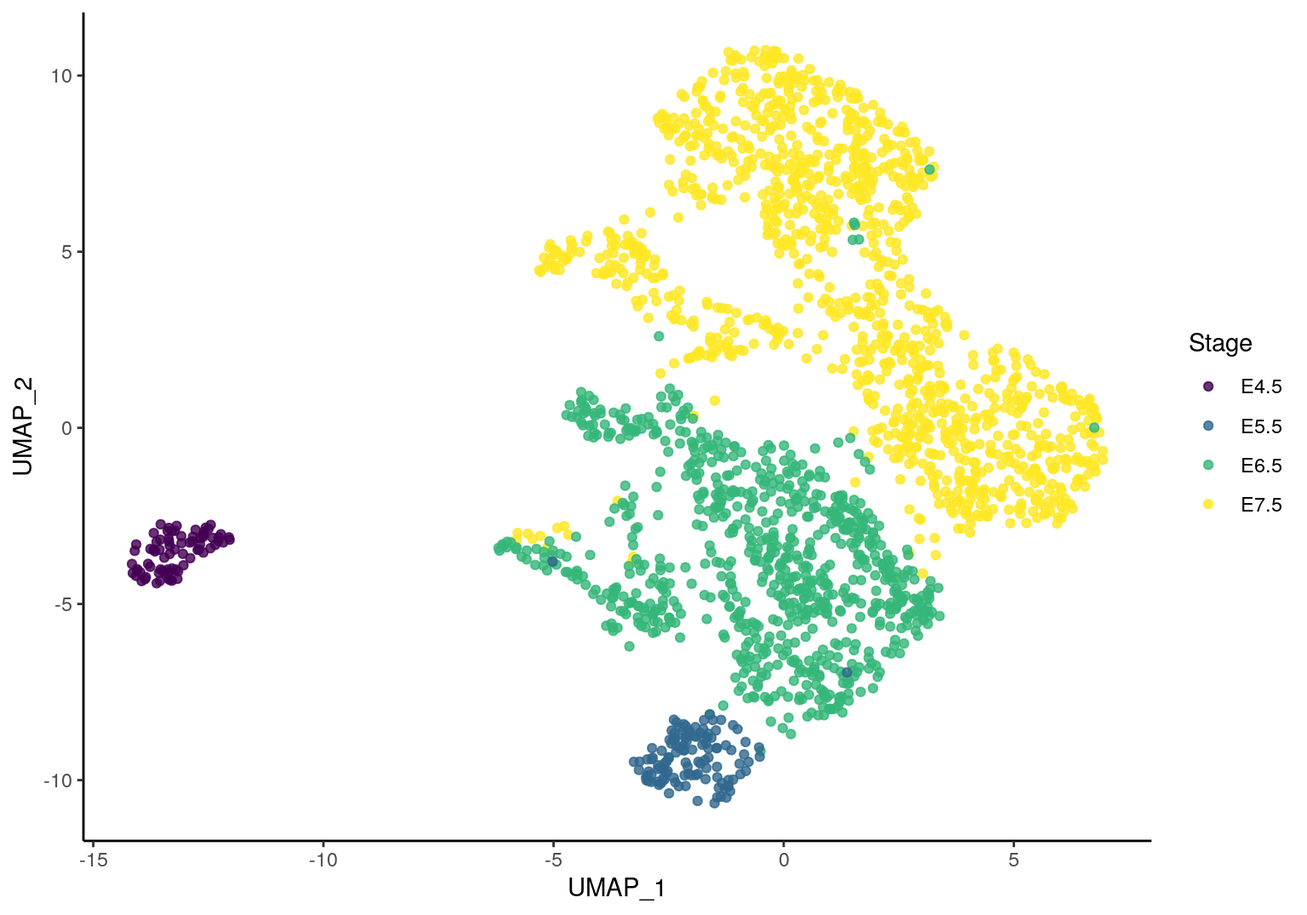
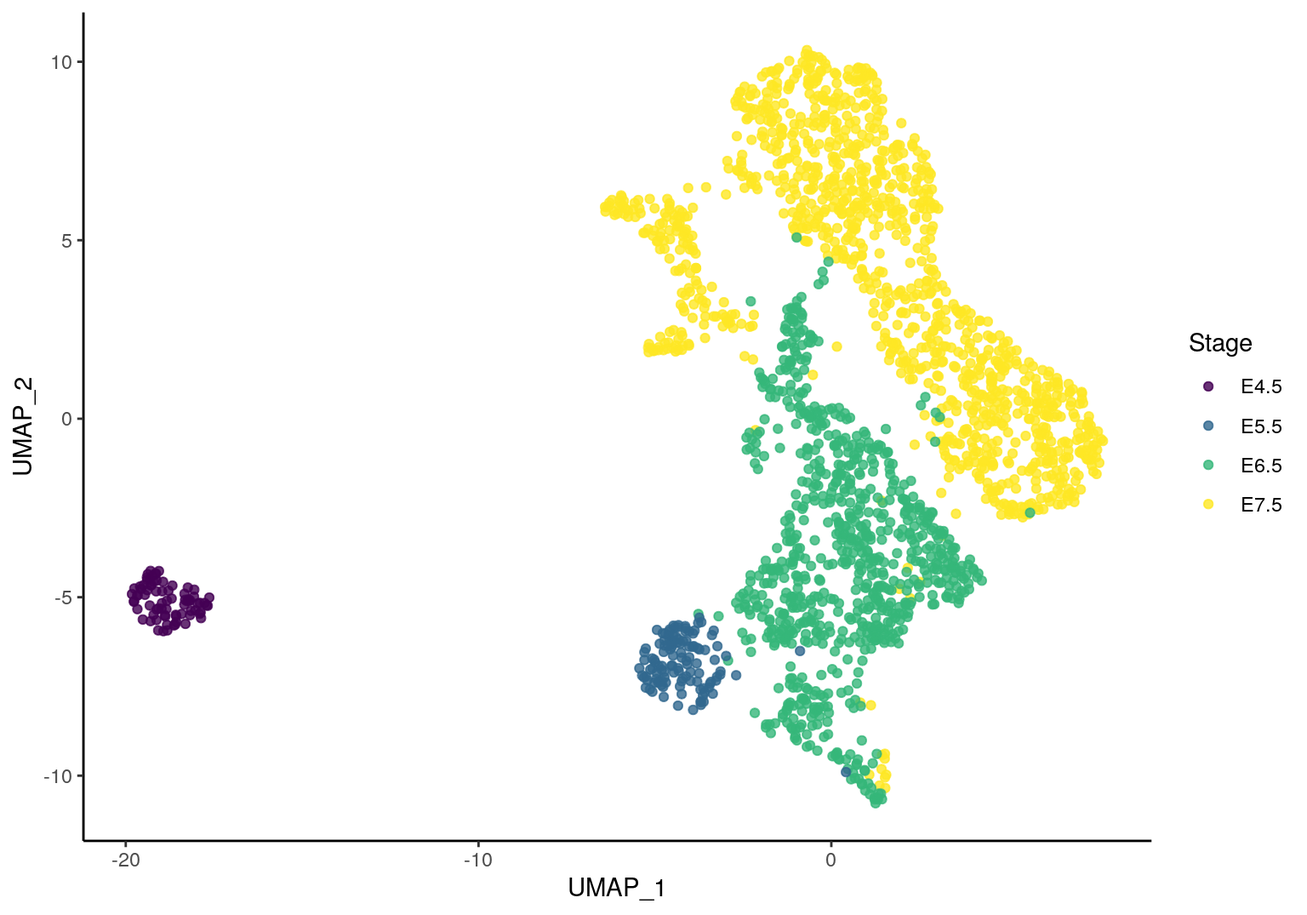
Deploying to gh-pages from  @ e0aec66fb955fa28ddf1aad83eb996b190fc3a57 🚀

diff --git a/articles/index.html b/articles/index.html
@@ -110,7 +110,8 @@
 <span class="fu"><a href="https://rdrr.io/r/base/library.html">library</a></span>(<span class="no">ggplot2</span>)
 <span class="fu"><a href="https://rdrr.io/r/base/library.html">library</a></span>(<span class="no">magrittr</span>)
 <span class="fu"><a href="https://rdrr.io/r/base/library.html">library</a></span>(<span class="no">reshape2</span>)
-<span class="fu"><a href="https://rdrr.io/r/base/library.html">library</a></span>(<span class="no">uwot</span>)</pre></body></html></div>
+<span class="fu"><a href="https://rdrr.io/r/base/library.html">library</a></span>(<span class="no">uwot</span>)
+<span class="fu"><a href="https://rdrr.io/r/base/library.html">library</a></span>(<span class="no">impute</span>)</pre></body></html></div>
 <div id="data" class="section level1">
 <h1 class="hasAnchor">
 <a href="#data" class="anchor"></a>Data</h1>
@@ -431,7 +432,7 @@
 
 <span class="fu"><a href="https://rdrr.io/r/base/cat.html">cat</a></span>(<span class="st">'\nPLS run finished. Runtime: '</span>, <span class="fu">format_runtime</span>(<span class="no">st</span>), <span class="st">'\n'</span>)
 <span class="co">#&gt; </span>
-<span class="co">#&gt; PLS run finished. Runtime:  00:02:32</span></pre></body></html></div>
+<span class="co">#&gt; PLS run finished. Runtime:  00:02:46</span></pre></body></html></div>
 <div class="sourceCode" id="cb22"><html><body><pre class="r"><span class="no">plot_pls</span> <span class="kw">&lt;-</span> <span class="kw">function</span>(<span class="no">pls_obj</span>, <span class="no">stage</span>, <span class="no">legend.title</span> <span class="kw">=</span> <span class="st">'Stage'</span>, <span class="no">comp</span> <span class="kw">=</span> <span class="fu"><a href="https://rdrr.io/r/base/c.html">c</a></span>(<span class="fl">1</span>,<span class="fl">2</span>), <span class="no">col_palette</span>) {
   <span class="no">variates</span> <span class="kw">&lt;-</span> <span class="fu"><a href="https://rdrr.io/r/base/lapply.html">lapply</a></span>(<span class="no">pls_obj</span>$<span class="no">variates</span>, <span class="kw">function</span>(<span class="no">arr</span>){
     <span class="no">df</span> <span class="kw">&lt;-</span> <span class="fu"><a href="https://rdrr.io/r/base/as.data.frame.html">as.data.frame</a></span>(<span class="no">arr</span>[,<span class="no">comp</span>])
@@ -508,19 +509,26 @@
                         <span class="no">gg_lineage</span> + <span class="fu"><a href="https://ggplot2.tidyverse.org/reference/labs.html">labs</a></span>(<span class="kw">y</span> <span class="kw">=</span> <span class="st">''</span>, <span class="kw">x</span> <span class="kw">=</span> <span class="st">''</span>),
                         <span class="kw">widths</span> <span class="kw">=</span> <span class="fu"><a href="https://rdrr.io/r/base/c.html">c</a></span>(<span class="fl">10</span>,<span class="fl">1</span>,<span class="fl">10</span>),
                         <span class="kw">nrow</span><span class="kw">=</span><span class="fl">1</span>)</pre></body></html></div>
-<p><img src="index_files/figure-html/unnamed-chunk-32-1.png" width="1152"></p>
+<p><img src="index_files/figure-html/unnamed-chunk-33-1.png" width="1152"></p>
 <p>UMAP projection using 4 PLS components for each modality shows the distinct states cells from each stage on transcriptional and DNA methylation level in the projected space. This suggests that the molecular changes during mouse gastrulation are coordinated across the study modalities. The projection also highlights the different patterns of transcriptional variation among different putative lineages in late-stage cells.</p>
 </div>
-</div>
-<div id="concordance-with-rna" class="section level1">
-<h1 class="hasAnchor">
-<a href="#concordance-with-rna" class="anchor"></a>concordance with RNA</h1>
-<p>Here we calculate the correlations between components from gene expression and different methylome modalities:</p>
+<div id="concordance-with-rna" class="section level2">
+<h2 class="hasAnchor">
+<a href="#concordance-with-rna" class="anchor"></a>concordance with RNA</h2>
+<p>Here we calculate the correlations between components from gene expression and different methylome modalities as a measure of concordnat variation:</p>
 <div class="sourceCode" id="cb28"><html><body><pre class="r"><span class="co">## For a pls object which includes pls cell embeddings from a computed latent space</span>
-<span class="co">## where covariance with rna is maximal, calculate the correlation b/w rna embeddings</span>
-<span class="co">## and those of a given modality's (per component and average) as a measure of concordant variation with rna</span>
-<span class="no">concordance</span> <span class="kw">&lt;-</span> <span class="kw">function</span>(<span class="no">pls_obj</span>, <span class="no">comp</span> <span class="kw">=</span> <span class="fl">1</span>) {
-
+<span class="co">## where covariance with rna is maximal, calculate the correlation b/w rna scores</span>
+<span class="co">## and those of a given modality's (per component and average) - potentially weighted by amount of </span>
+<span class="co">## variance each rna component explains (weighted=TRUE) - as a measure of concordant variation with rna</span>
+<span class="no">concordance</span> <span class="kw">&lt;-</span> <span class="kw">function</span>(<span class="no">pls_obj</span>,
+                        <span class="no">comp</span> <span class="kw">=</span> <span class="fl">1</span>, <span class="co">## which componets to use</span>
+                        <span class="no">weighted</span> <span class="kw">=</span> <span class="fl">TRUE</span>,
+                        <span class="no">which.plot</span> <span class="kw">=</span> <span class="kw">NULL</span>, <span class="co">## which component to plot (or [weighted.]mean)</span>
+                        <span class="no">show.legend</span> <span class="kw">=</span> <span class="fl">TRUE</span>
+                        ) {
+  <span class="kw">if</span> (!<span class="fu"><a href="https://rdrr.io/r/base/NULL.html">is.null</a></span>(<span class="no">which.plot</span>)) {
+    <span class="no">which.plot</span>[<span class="fu"><a href="https://rdrr.io/r/base/numeric.html">is.numeric</a></span>(<span class="no">which.plot</span>)] <span class="kw">&lt;-</span> <span class="fu"><a href="https://rdrr.io/r/base/paste.html">paste0</a></span>(<span class="st">'Component '</span>,  <span class="no">which.plot</span>[<span class="fu"><a href="https://rdrr.io/r/base/numeric.html">is.numeric</a></span>(<span class="no">which.plot</span>)])
+  }
   <span class="co">## correlation of components with RNA components</span>
   <span class="no">cor_with_y</span> <span class="kw">&lt;-</span> <span class="fu"><a href="https://rdrr.io/r/base/lapply.html">sapply</a></span>(<span class="no">pls_obj</span>$<span class="no">variates</span>[-<span class="fl">1</span>], <span class="kw">function</span>(<span class="no">x_variates</span>) {
     <span class="no">y_variates</span> <span class="kw">&lt;-</span> <span class="no">pls_obj</span>$<span class="no">variates</span><span class="kw">[[</span><span class="fl">1</span>]]
@@ -528,7 +536,16 @@
     <span class="no">cor</span> <span class="kw">&lt;-</span> <span class="fu"><a href="https://rdrr.io/r/stats/cor.html">cor</a></span>(<span class="no">y_variates</span>, <span class="no">x_variates</span>)
     <span class="no">cor</span> <span class="kw">&lt;-</span> <span class="fu"><a href="https://rdrr.io/r/base/diag.html">diag</a></span>(<span class="no">cor</span>)
     <span class="fu"><a href="https://rdrr.io/r/base/names.html">names</a></span>(<span class="no">cor</span>) <span class="kw">&lt;-</span> <span class="fu"><a href="https://rdrr.io/r/base/paste.html">paste0</a></span>(<span class="st">'Component '</span>, <span class="no">comp</span>)
-    <span class="no">cor</span>[<span class="st">'mean'</span>] <span class="kw">&lt;-</span> <span class="fu"><a href="https://rdrr.io/r/base/mean.html">mean</a></span>(<span class="no">cor</span>)
+
+    <span class="kw">if</span> (<span class="fu"><a href="https://rdrr.io/r/base/Logic.html">isFALSE</a></span>(<span class="no">weighted</span>)) {
+      <span class="no">weight</span> <span class="kw">&lt;-</span> <span class="fu"><a href="https://rdrr.io/r/base/rep.html">rep</a></span>(<span class="fl">1</span>, <span class="fu"><a href="https://rdrr.io/r/base/length.html">length</a></span>(<span class="no">cor</span>))
+    } <span class="kw">else</span> {
+      <span class="no">weight</span> <span class="kw">&lt;-</span> <span class="no">pls_obj</span>$<span class="no">explained_variance</span>$<span class="no">rna</span>
+    }
+    <span class="no">cor.mean</span> <span class="kw">&lt;-</span> <span class="fu"><a href="https://rdrr.io/r/base/mean.html">mean</a></span>(<span class="no">cor</span>)
+    <span class="no">wtd.cor.mean</span> <span class="kw">&lt;-</span> <span class="fu"><a href="https://rdrr.io/r/stats/weighted.mean.html">weighted.mean</a></span>(<span class="kw">x</span> <span class="kw">=</span> <span class="no">cor</span>, <span class="kw">w</span> <span class="kw">=</span> <span class="no">weight</span>)
+    <span class="no">cor</span>[<span class="st">'mean'</span>] <span class="kw">&lt;-</span> <span class="no">cor.mean</span>
+    <span class="no">cor</span>[<span class="st">'weighted.mean'</span>] <span class="kw">&lt;-</span> <span class="no">wtd.cor.mean</span>
     <span class="no">cor</span> <span class="kw">&lt;-</span> <span class="fu"><a href="https://rdrr.io/r/base/Round.html">round</a></span>(<span class="no">cor</span>, <span class="fl">2</span>)
     <span class="no">cor</span>
   })
@@ -537,25 +554,137 @@
   <span class="no">cor_with_y</span> <span class="kw">&lt;-</span> <span class="no">cor_with_y</span> <span class="kw">%&gt;%</span> <span class="fu"><a href="https://rdrr.io/r/base/as.data.frame.html">as.data.frame</a></span>() <span class="kw">%&gt;%</span> <span class="fu"><a href="https://rdrr.io/r/base/t.html">t</a></span>() <span class="kw">%&gt;%</span>
     <span class="kw pkg">reshape2</span><span class="kw ns">::</span><span class="fu"><a href="https://rdrr.io/pkg/reshape2/man/melt.html">melt</a></span>(<span class="kw">id.vars</span> <span class="kw">=</span> <span class="fl">1</span>:<span class="fl">3</span>) <span class="kw">%&gt;%</span>
     <span class="fu"><a href="https://rdrr.io/pkg/magrittr/man/aliases.html">set_colnames</a></span>(<span class="fu"><a href="https://rdrr.io/r/base/c.html">c</a></span>(<span class="st">'Modality'</span>, <span class="st">'Component'</span>, <span class="st">'Concordance'</span>))
-  <span class="co">## print concordance measures for each componet and the average:</span>
-  <span class="co"># sapply(unique(as.character(cor_with_y$Component)), function(z){</span>
-  <span class="co">#   cat('#&gt; Component:', z )</span>
-  <span class="co">#   dplyr::filter(cor_with_y, Component == z)[,c('Modality', 'Concordance')] %&gt;% </span>
-  <span class="co">#     kable() </span>
-  <span class="co"># })</span>
 
-  <span class="fu"><a href="https://ggplot2.tidyverse.org/reference/ggplot.html">ggplot</a></span>(<span class="no">cor_with_y</span>, <span class="fu"><a href="https://ggplot2.tidyverse.org/reference/aes.html">aes</a></span>(<span class="kw">x</span> <span class="kw">=</span> <span class="no">Modality</span>, <span class="kw">y</span> <span class="kw">=</span> <span class="no">Concordance</span>)) + <span class="fu"><a href="https://ggplot2.tidyverse.org/reference/geom_bar.html">geom_col</a></span>(<span class="fu"><a href="https://ggplot2.tidyverse.org/reference/aes.html">aes</a></span>(<span class="kw">fill</span> <span class="kw">=</span> <span class="no">Component</span>), <span class="kw">position</span> <span class="kw">=</span> <span class="st">'dodge2'</span>) + <span class="fu"><a href="https://ggplot2.tidyverse.org/reference/ggtheme.html">theme_classic</a></span>() +
+  <span class="kw">if</span> (!<span class="fu"><a href="https://rdrr.io/r/base/NULL.html">is.null</a></span>(<span class="no">which.plot</span>)) {
+    <span class="no">cor_with_y</span> <span class="kw">&lt;-</span> <span class="no">cor_with_y</span>[<span class="no">cor_with_y</span>$<span class="no">Component</span> <span class="kw">%in%</span> <span class="no">which.plot</span>,]
+  }
+  <span class="fu"><a href="https://ggplot2.tidyverse.org/reference/ggplot.html">ggplot</a></span>(<span class="no">cor_with_y</span>, <span class="fu"><a href="https://ggplot2.tidyverse.org/reference/aes.html">aes</a></span>(<span class="kw">x</span> <span class="kw">=</span> <span class="no">Modality</span>, <span class="kw">y</span> <span class="kw">=</span> <span class="no">Concordance</span>)) + <span class="fu"><a href="https://ggplot2.tidyverse.org/reference/geom_bar.html">geom_col</a></span>(<span class="fu"><a href="https://ggplot2.tidyverse.org/reference/aes.html">aes</a></span>(<span class="kw">fill</span> <span class="kw">=</span> <span class="no">Component</span>), <span class="kw">position</span> <span class="kw">=</span> <span class="st">'dodge2'</span>, <span class="kw">show.legend</span> <span class="kw">=</span> <span class="no">show.legend</span>) + <span class="fu"><a href="https://ggplot2.tidyverse.org/reference/ggtheme.html">theme_classic</a></span>() +
     <span class="fu"><a href="https://ggplot2.tidyverse.org/reference/labs.html">labs</a></span>(<span class="kw">y</span> <span class="kw">=</span> <span class="fu"><a href="https://rdrr.io/r/base/sprintf.html">sprintf</a></span>(<span class="st">'Correlation with RNA (comp %s) '</span>, <span class="fu"><a href="https://rdrr.io/r/base/paste.html">paste</a></span>(<span class="no">comp</span>, <span class="kw">collapse</span> <span class="kw">=</span> <span class="st">', '</span>)), <span class="kw">x</span> <span class="kw">=</span> <span class="st">''</span>, <span class="kw">fill</span> <span class="kw">=</span> <span class="st">''</span>) + <span class="fu"><a href="https://ggplot2.tidyverse.org/reference/lims.html">ylim</a></span>(<span class="fu"><a href="https://rdrr.io/r/base/c.html">c</a></span>(<span class="fl">0</span>, <span class="fl">1</span>)) + <span class="fu"><a href="https://ggplot2.tidyverse.org/reference/theme.html">theme</a></span>(<span class="kw">axis.text.x</span> <span class="kw">=</span> <span class="fu"><a href="https://ggplot2.tidyverse.org/reference/element.html">element_text</a></span>(<span class="kw">angle</span> <span class="kw">=</span> <span class="fl">45</span>, <span class="kw">vjust</span> <span class="kw">=</span> <span class="fl">0.8</span>, <span class="kw">hjust</span><span class="kw">=</span><span class="fl">1</span>))
 }</pre></body></html></div>
-<div class="sourceCode" id="cb29"><html><body><pre class="r"><span class="fu">concordance</span>(<span class="kw">pls_obj</span> <span class="kw">=</span> <span class="no">mmspls</span>, <span class="kw">comp</span> <span class="kw">=</span> <span class="fu"><a href="https://rdrr.io/r/base/c.html">c</a></span>(<span class="fl">1</span>, <span class="fl">2</span>))
+<div class="sourceCode" id="cb29"><html><body><pre class="r"><span class="fu">concordance</span>(<span class="kw">pls_obj</span> <span class="kw">=</span> <span class="no">mmspls</span>, <span class="kw">comp</span> <span class="kw">=</span> <span class="fu"><a href="https://rdrr.io/r/base/c.html">c</a></span>(<span class="fl">1</span>:<span class="fl">4</span>), <span class="kw">which.plot</span> <span class="kw">=</span> <span class="kw">NULL</span>)
 <span class="co">#&gt; </span>
 <span class="co">#&gt; </span>
-<span class="co">#&gt; |            | met_genebody| met_promoter| met_cgi| met_DHS|</span>
-<span class="co">#&gt; |:-----------|------------:|------------:|-------:|-------:|</span>
-<span class="co">#&gt; |Component 1 |         0.82|         0.89|    0.91|    0.86|</span>
-<span class="co">#&gt; |Component 2 |         0.48|         0.65|    0.57|    0.50|</span>
-<span class="co">#&gt; |mean        |         0.65|         0.77|    0.74|    0.68|</span></pre></body></html></div>
-<p><img src="index_files/figure-html/unnamed-chunk-35-1.png" width="768"></p>
+<span class="co">#&gt; |              | met_genebody| met_promoter| met_cgi| met_DHS|</span>
+<span class="co">#&gt; |:-------------|------------:|------------:|-------:|-------:|</span>
+<span class="co">#&gt; |Component 1   |         0.82|         0.89|    0.91|    0.86|</span>
+<span class="co">#&gt; |Component 2   |         0.48|         0.65|    0.57|    0.50|</span>
+<span class="co">#&gt; |Component 3   |         0.58|         0.58|    0.52|    0.58|</span>
+<span class="co">#&gt; |Component 4   |         0.57|         0.42|    0.44|    0.40|</span>
+<span class="co">#&gt; |mean          |         0.62|         0.63|    0.61|    0.58|</span>
+<span class="co">#&gt; |weighted.mean |         0.63|         0.67|    0.66|    0.62|</span></pre></body></html></div>
+<p><img src="index_files/figure-html/unnamed-chunk-36-1.png" width="768"></p>
+</div>
+</div>
+<div id="imputation" class="section level1">
+<h1 class="hasAnchor">
+<a href="#imputation" class="anchor"></a>Imputation</h1>
+<p>Impute methylation data</p>
+<div class="sourceCode" id="cb30"><html><body><pre class="r"><span class="co"># sum(!gastru.mae$pass_metQC)</span>
+<span class="co">#&gt; 0</span>
+<span class="no">gastru.mae.imputed</span> <span class="kw">&lt;-</span> <span class="no">gastru.mae</span>
+<span class="no">met_assays</span> <span class="kw">&lt;-</span> <span class="fu"><a href="https://rdrr.io/r/base/grep.html">grep</a></span>(<span class="kw">pattern</span> <span class="kw">=</span> <span class="st">'^met'</span>, <span class="fu"><a href="https://rdrr.io/r/base/names.html">names</a></span>(<span class="fu"><a href="https://rdrr.io/pkg/MultiAssayExperiment/man/MultiAssayExperiment-methods.html">experiments</a></span>(<span class="no">gastru.mae.imputed</span>)), <span class="kw">value</span> <span class="kw">=</span> <span class="fl">TRUE</span>)
+<span class="kw">for</span> (<span class="no">assay_type</span> <span class="kw">in</span> <span class="no">met_assays</span>) {
+  <span class="no">assay_values</span> <span class="kw">&lt;-</span> <span class="no">gastru.mae.imputed</span>@<span class="kw">ExperimentList</span><span class="kw">[[</span><span class="no">assay_type</span>]]
+  <span class="fu"><a href="https://rdrr.io/r/base/cat.html">cat</a></span>(<span class="st">'\nimputing values for:'</span>, <span class="no">assay_type</span>, <span class="st">'\n'</span>)
+  <span class="no">gastru.mae.imputed</span>@<span class="kw">ExperimentList</span><span class="kw">[[</span><span class="no">assay_type</span>]] <span class="kw">&lt;-</span>
+    <span class="fu"><a href="https://rdrr.io/pkg/impute/man/impute.knn.html">impute.knn</a></span>(<span class="kw">data</span> <span class="kw">=</span> <span class="no">assay_values</span>,
+               <span class="kw">k</span> <span class="kw">=</span> <span class="fl">30</span>,
+               <span class="kw">rowmax</span> <span class="kw">=</span> <span class="fl">0.99</span>,
+               <span class="kw">colmax</span> <span class="kw">=</span> <span class="fl">0.99</span>,
+               <span class="kw">rng.seed</span><span class="kw">=</span><span class="fl">42</span>)$<span class="no">data</span>
+}</pre></body></html></div>
+<div class="sourceCode" id="cb31"><html><body><pre class="r"><span class="fu"><a href="https://rdrr.io/r/base/cat.html">cat</a></span>(<span class="fu"><a href="https://rdrr.io/r/base/sprintf.html">sprintf</a></span>(<span class="st">'Running PLS on imputed data with %s components performing variable selection\n'</span>, <span class="no">ncomp</span>))
+<span class="co">#&gt; Running PLS on imputed data with 4 components performing variable selection</span>
+<span class="no">st</span> <span class="kw">&lt;-</span> <span class="fu"><a href="https://rdrr.io/r/base/system.time.html">system.time</a></span>({
+  <span class="no">mmspls.imputed</span> <span class="kw">&lt;-</span>
+    <span class="fu"><a href="https://github.com/ajabadi/BIRSBIO2020.scNMTseq.PLS/reference/multimodal_sPLS_wrapper.html">multimodal_sPLS_wrapper</a></span>(<span class="kw">mae</span> <span class="kw">=</span> <span class="no">gastru.mae.imputed</span>, <span class="kw">study_assays</span> <span class="kw">=</span> <span class="kw">NULL</span>,
+                            <span class="kw">ncomp</span> <span class="kw">=</span> <span class="no">ncomp</span>, <span class="kw">scale</span> <span class="kw">=</span> <span class="no">scale</span>, <span class="kw">design</span> <span class="kw">=</span> <span class="st">'null'</span>, <span class="kw">lineages</span> <span class="kw">=</span> <span class="kw">NULL</span>,
+                            <span class="kw">stages</span> <span class="kw">=</span> <span class="kw">NULL</span>, <span class="kw">DA</span> <span class="kw">=</span> <span class="kw">NULL</span>, <span class="kw">keepX</span> <span class="kw">=</span> <span class="kw">NULL</span>, <span class="kw">save</span> <span class="kw">=</span> <span class="fl">FALSE</span>)
+})[<span class="st">'elapsed'</span>]
+<span class="co">#&gt; Making unique feature names by adding assay name to feature name for: met_genebody</span>
+<span class="co">#&gt; Making unique feature names by adding assay name to feature name for: met_promoter</span>
+
+<span class="fu"><a href="https://rdrr.io/r/base/cat.html">cat</a></span>(<span class="st">'\nPLS run finished. Runtime: '</span>, <span class="fu">format_runtime</span>(<span class="no">st</span>), <span class="st">'\n'</span>)
+<span class="co">#&gt; </span>
+<span class="co">#&gt; PLS run finished. Runtime:  00:00:38</span></pre></body></html></div>
+<div id="score-plots-1" class="section level2">
+<h2 class="hasAnchor">
+<a href="#score-plots-1" class="anchor"></a>score plots</h2>
+<div class="sourceCode" id="cb32"><html><body><pre class="r"><span class="fu">plot_pls</span>(<span class="kw">pls_obj</span> <span class="kw">=</span> <span class="no">mmspls.imputed</span>, <span class="kw">stage</span> <span class="kw">=</span> <span class="no">gastru.mae.imputed</span>$<span class="no">stage</span>, <span class="kw">col_palette</span> <span class="kw">=</span> <span class="no">col_palette</span>)</pre></body></html></div>
+<p><img src="index_files/figure-html/unnamed-chunk-40-1.png" width="768"></p>
+</div>
+<div id="umap-using-4-pls-components-from-imputed-data" class="section level2">
+<h2 class="hasAnchor">
+<a href="#umap-using-4-pls-components-from-imputed-data" class="anchor"></a>UMAP using 4 PLS components from imputed data</h2>
+<div class="sourceCode" id="cb33"><html><body><pre class="r"><span class="kw">for</span> (<span class="no">block</span> <span class="kw">in</span> <span class="fu"><a href="https://rdrr.io/r/base/names.html">names</a></span>(<span class="no">mmspls.imputed</span>$<span class="no">variates</span>)) {
+  <span class="no">variates</span> <span class="kw">&lt;-</span> <span class="no">mmspls.imputed</span>$<span class="no">variates</span>[<span class="no">block</span>]
+  <span class="no">dimred.name</span> <span class="kw">&lt;-</span> <span class="fu"><a href="https://rdrr.io/r/base/paste.html">paste0</a></span>(<span class="st">'PLS_imputed_'</span>, <span class="no">block</span>)
+  <span class="no">umap.name</span> <span class="kw">&lt;-</span> <span class="fu"><a href="https://rdrr.io/r/base/paste.html">paste0</a></span>(<span class="st">'UMAP_PLS_imputed_'</span>, <span class="no">block</span>)
+  <span class="fu">reducedDim</span>(<span class="no">rna.sce.matching</span>, <span class="no">dimred.name</span>) <span class="kw">&lt;-</span> <span class="no">mmspls.imputed</span>$<span class="no">variates</span><span class="kw">[[</span><span class="no">block</span>]]
+  <span class="fu"><a href="https://rdrr.io/r/base/Random.html">set.seed</a></span>(<span class="no">params</span>$<span class="no">umap_params</span>[<span class="st">'run.seed'</span>])
+  <span class="no">rna.sce.matching</span> <span class="kw">&lt;-</span> <span class="fu"><a href="https://rdrr.io/pkg/scater/man/runUMAP.html">runUMAP</a></span>(<span class="no">rna.sce.matching</span>, <span class="kw">dimred</span><span class="kw">=</span><span class="no">dimred.name</span>,
+                              <span class="kw">ncomponents</span> <span class="kw">=</span> <span class="no">params</span>$<span class="no">umap_params</span>[<span class="st">'n_components'</span>],
+                              <span class="kw">n_neighbors</span> <span class="kw">=</span> <span class="no">params</span>$<span class="no">umap_params</span>[<span class="st">'n_neighbors'</span>],
+                              <span class="kw">min_dist</span> <span class="kw">=</span> <span class="no">params</span>$<span class="no">umap_params</span>[<span class="st">'min_dist'</span>],
+                              <span class="kw">name</span> <span class="kw">=</span> <span class="no">umap.name</span>)
+}</pre></body></html></div>
+<p>Create a long data.frame of all variates for facet plotting:</p>
+<div class="sourceCode" id="cb34"><html><body><pre class="r"><span class="no">all_pls_umap</span> <span class="kw">&lt;-</span> <span class="fu"><a href="https://rdrr.io/r/base/list.html">list</a></span>()
+<span class="kw">for</span> (<span class="no">block</span> <span class="kw">in</span> <span class="fu"><a href="https://rdrr.io/r/base/names.html">names</a></span>(<span class="no">mmspls.imputed</span>$<span class="no">variates</span>)) {
+  <span class="no">umap.name</span> <span class="kw">&lt;-</span> <span class="fu"><a href="https://rdrr.io/r/base/paste.html">paste0</a></span>(<span class="st">'UMAP_PLS_imputed_'</span>, <span class="no">block</span>)
+  <span class="no">umap_df</span> <span class="kw">&lt;-</span> <span class="fu"><a href="https://rdrr.io/r/base/as.data.frame.html">as.data.frame</a></span>(<span class="fu">reducedDim</span>(<span class="no">rna.sce.matching</span>, <span class="no">umap.name</span>))
+  <span class="fu"><a href="https://rdrr.io/r/base/colnames.html">colnames</a></span>(<span class="no">umap_df</span>) <span class="kw">&lt;-</span> <span class="fu"><a href="https://rdrr.io/r/base/paste.html">paste0</a></span>(<span class="st">'UMAP_'</span>, <span class="fu"><a href="https://rdrr.io/r/base/seq.html">seq_along</a></span>(<span class="no">umap_df</span>))
+  <span class="no">umap_df</span>$<span class="no">stage</span> <span class="kw">&lt;-</span> <span class="no">gastru.mae.imputed</span>$<span class="no">stage</span>
+  <span class="no">umap_df</span>$<span class="no">lineage</span> <span class="kw">&lt;-</span> <span class="no">gastru.mae.imputed</span>$<span class="no">lineage</span>
+  <span class="no">all_pls_umap</span><span class="kw">[[</span><span class="no">block</span>]] <span class="kw">&lt;-</span> <span class="no">umap_df</span>
+}
+<span class="no">all_pls_umap</span> <span class="kw">&lt;-</span> <span class="fu"><a href="https://github.com/ajabadi/BIRSBIO2020.scNMTseq.PLS/reference/utils.html">rbindListWithNames</a></span>(<span class="no">all_pls_umap</span>, <span class="kw">new_col</span> <span class="kw">=</span> <span class="st">'Modality'</span>)</pre></body></html></div>
+<p>Plot UMAP:</p>
+<div class="sourceCode" id="cb35"><html><body><pre class="r"><span class="co">## ------------- stage</span>
+<span class="no">axes</span> <span class="kw">&lt;-</span> <span class="fu"><a href="https://rdrr.io/r/base/colnames.html">colnames</a></span>(<span class="no">all_pls_umap</span>)[<span class="fl">1</span>:<span class="fl">2</span>]
+<span class="no">gg_stage</span> <span class="kw">&lt;-</span> <span class="fu"><a href="https://ggplot2.tidyverse.org/reference/ggplot.html">ggplot</a></span>(<span class="no">all_pls_umap</span>) +
+  <span class="fu"><a href="https://ggplot2.tidyverse.org/reference/ggtheme.html">theme_classic</a></span>() +
+  <span class="fu"><a href="https://ggplot2.tidyverse.org/reference/geom_point.html">geom_point</a></span>(<span class="fu"><a href="https://ggplot2.tidyverse.org/reference/aes_.html">aes_string</a></span>(<span class="kw">x</span> <span class="kw">=</span> <span class="no">axes</span>[<span class="fl">1</span>], <span class="kw">y</span> <span class="kw">=</span> <span class="no">axes</span>[<span class="fl">2</span>], <span class="kw">col</span> <span class="kw">=</span> <span class="st">'stage'</span>), <span class="kw">alpha</span> <span class="kw">=</span> <span class="no">params</span>$<span class="no">ggplot_alph</span>) +
+  <span class="fu"><a href="https://ggplot2.tidyverse.org/reference/facet_wrap.html">facet_wrap</a></span>(<span class="no">.</span>~<span class="no">Modality</span>, <span class="kw">ncol</span> <span class="kw">=</span> <span class="fl">2</span>, <span class="kw">scales</span> <span class="kw">=</span> <span class="st">'free'</span>) +
+  <span class="fu"><a href="https://ggplot2.tidyverse.org/reference/scale_manual.html">scale_color_manual</a></span>(<span class="kw">values</span> <span class="kw">=</span> <span class="no">col_palette</span>) +
+  <span class="fu"><a href="https://ggplot2.tidyverse.org/reference/labs.html">labs</a></span>(<span class="kw">col</span> <span class="kw">=</span> <span class="st">'Stage'</span>)
+
+<span class="co">## ------------- lineage</span>
+<span class="co"># lineage_col_palette &lt;- viridisLite::viridis(n=length(unique(unique(gastru.mae.imputed$lineage))))</span>
+<span class="no">lineage_col_palette</span> <span class="kw">&lt;-</span> <span class="fu"><a href="https://rdrr.io/r/base/c.html">c</a></span>(<span class="st">"#440154FF"</span>, <span class="st">"#3B528BFF"</span>, <span class="st">"#21908CFF"</span>, <span class="st">"#5DC863FF"</span>, <span class="st">"#FDE725FF"</span>)
+<span class="fu"><a href="https://rdrr.io/r/base/names.html">names</a></span>(<span class="no">lineage_col_palette</span>) <span class="kw">&lt;-</span> <span class="fu"><a href="https://rdrr.io/r/base/unique.html">unique</a></span>(<span class="no">gastru.mae.imputed</span>$<span class="no">lineage</span>)
+<span class="no">axes</span> <span class="kw">&lt;-</span> <span class="fu"><a href="https://rdrr.io/r/base/colnames.html">colnames</a></span>(<span class="no">all_pls_umap</span>)[<span class="fl">1</span>:<span class="fl">2</span>]
+<span class="no">gg_lineage</span> <span class="kw">&lt;-</span> <span class="fu"><a href="https://ggplot2.tidyverse.org/reference/ggplot.html">ggplot</a></span>(<span class="no">all_pls_umap</span>) +
+  <span class="fu"><a href="https://ggplot2.tidyverse.org/reference/ggtheme.html">theme_classic</a></span>() +
+  <span class="fu"><a href="https://ggplot2.tidyverse.org/reference/geom_point.html">geom_point</a></span>(<span class="fu"><a href="https://ggplot2.tidyverse.org/reference/aes_.html">aes_string</a></span>(<span class="kw">x</span> <span class="kw">=</span> <span class="no">axes</span>[<span class="fl">1</span>], <span class="kw">y</span> <span class="kw">=</span> <span class="no">axes</span>[<span class="fl">2</span>], <span class="kw">col</span> <span class="kw">=</span> <span class="st">'lineage'</span>), <span class="kw">alpha</span> <span class="kw">=</span> <span class="no">params</span>$<span class="no">ggplot_alph</span>) +
+  <span class="fu"><a href="https://ggplot2.tidyverse.org/reference/facet_wrap.html">facet_wrap</a></span>(<span class="no">.</span>~<span class="no">Modality</span>, <span class="kw">ncol</span> <span class="kw">=</span> <span class="fl">2</span>, <span class="kw">scales</span> <span class="kw">=</span> <span class="st">'free'</span>) +
+  <span class="fu"><a href="https://ggplot2.tidyverse.org/reference/scale_manual.html">scale_color_manual</a></span>(<span class="kw">values</span> <span class="kw">=</span> <span class="no">lineage_col_palette</span>) +
+  <span class="fu"><a href="https://ggplot2.tidyverse.org/reference/labs.html">labs</a></span>(<span class="kw">col</span> <span class="kw">=</span> <span class="st">'Putative Lineage'</span>)</pre></body></html></div>
+<div class="sourceCode" id="cb36"><html><body><pre class="r"><span class="no">gg_stage_lineage</span> <span class="kw">&lt;-</span> <span class="kw pkg">gridExtra</span><span class="kw ns">::</span><span class="fu"><a href="https://rdrr.io/pkg/gridExtra/man/arrangeGrob.html">grid.arrange</a></span>(<span class="no">gg_stage</span> + <span class="fu"><a href="https://ggplot2.tidyverse.org/reference/labs.html">labs</a></span>(<span class="kw">x</span> <span class="kw">=</span> <span class="st">''</span>),
+                        <span class="fu"><a href="https://ggplot2.tidyverse.org/reference/ggplot.html">ggplot</a></span>() + <span class="fu"><a href="https://ggplot2.tidyverse.org/reference/ggtheme.html">theme_minimal</a></span>() + <span class="fu"><a href="https://ggplot2.tidyverse.org/reference/labs.html">labs</a></span>(<span class="kw">x</span> <span class="kw">=</span> <span class="st">'UMAP_1'</span>),
+                        <span class="no">gg_lineage</span> + <span class="fu"><a href="https://ggplot2.tidyverse.org/reference/labs.html">labs</a></span>(<span class="kw">y</span> <span class="kw">=</span> <span class="st">''</span>, <span class="kw">x</span> <span class="kw">=</span> <span class="st">''</span>),
+                        <span class="kw">widths</span> <span class="kw">=</span> <span class="fu"><a href="https://rdrr.io/r/base/c.html">c</a></span>(<span class="fl">10</span>,<span class="fl">1</span>,<span class="fl">10</span>),
+                        <span class="kw">nrow</span><span class="kw">=</span><span class="fl">1</span>)</pre></body></html></div>
+<p><img src="index_files/figure-html/unnamed-chunk-45-1.png" width="1152"></p>
+<p>UMAP projection using imputed data:</p>
+</div>
+<div id="concordance-with-rna-1" class="section level2">
+<h2 class="hasAnchor">
+<a href="#concordance-with-rna-1" class="anchor"></a>concordance with RNA</h2>
+<div class="sourceCode" id="cb37"><html><body><pre class="r"><span class="fu">concordance</span>(<span class="kw">pls_obj</span> <span class="kw">=</span> <span class="no">mmspls.imputed</span>, <span class="kw">comp</span> <span class="kw">=</span> <span class="fu"><a href="https://rdrr.io/r/base/c.html">c</a></span>(<span class="fl">1</span>:<span class="fl">4</span>), <span class="kw">which.plot</span> <span class="kw">=</span> <span class="kw">NULL</span>)
+<span class="co">#&gt; </span>
+<span class="co">#&gt; </span>
+<span class="co">#&gt; |              | met_genebody| met_promoter| met_cgi| met_DHS|</span>
+<span class="co">#&gt; |:-------------|------------:|------------:|-------:|-------:|</span>
+<span class="co">#&gt; |Component 1   |         0.86|         0.90|    0.94|    0.92|</span>
+<span class="co">#&gt; |Component 2   |         0.50|         0.67|    0.64|    0.51|</span>
+<span class="co">#&gt; |Component 3   |         0.62|         0.52|    0.45|    0.45|</span>
+<span class="co">#&gt; |Component 4   |         0.54|         0.51|    0.57|    0.62|</span>
+<span class="co">#&gt; |mean          |         0.63|         0.65|    0.65|    0.62|</span>
+<span class="co">#&gt; |weighted.mean |         0.66|         0.70|    0.70|    0.66|</span></pre></body></html></div>
+<p><img src="index_files/figure-html/unnamed-chunk-47-1.png" width="768"></p>
+<p>Imputation does not considerably improve the method’s performance as it inherently ignores the missing values during integration.</p>
+</div>
 </div>
 <div id="conclusion" class="section level1">
 <h1 class="hasAnchor">
